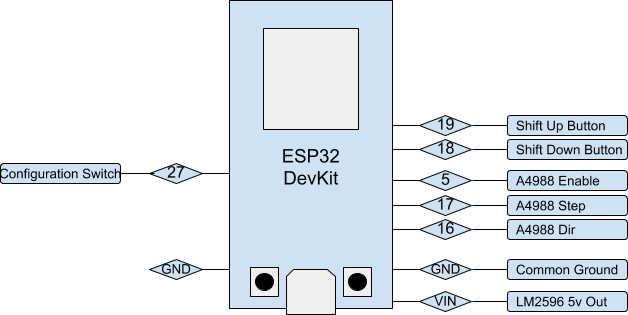
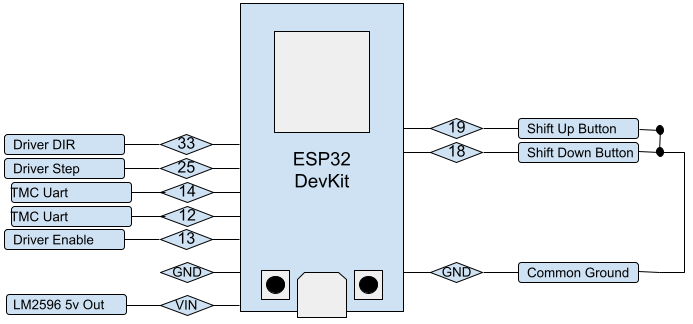
Moved Vin to the correct side on the ESP32 connection diagram.

diff --git a/README.md b/README.md
@@ -80,7 +80,7 @@ For some additional help, there are assembly pictures here that will be going in
 ummm that was easy...right? :)
 
 ### Esp32 Connection Diagram
-<img src="Pictures/SmartSpin2k_Esp32_Connections.jpg" alt="esp32 connections" style="height: 300px; width: 100"/> 
+<img src="Pictures/SmartSpin2k_Esp32_Connections.png" alt="esp32 connections" style="height: 300px; width: 100"/> 
 
 ### TMC2225 Connection Diagram
 <img src="Pictures/SmartSpin2k_TMC_Connections.jpg" alt="esp32 connections" style="height: 200px; width: 100"/> 

diff --git a/CHANGELOG.md b/CHANGELOG.md
@@ -30,6 +30,7 @@ and this project adheres to [Semantic Versioning](https://semver.org/spec/v2.0.0
 - Enabled native testing.
 
 ### Changed
+- Moved Vin to the correct side on the ESP32 connection diagram. 
 - Power Correction Factor minimum value is now .5
 - Made Revmaster insert slightly smaller. 
 - Fixed minor spulling errurs. 
